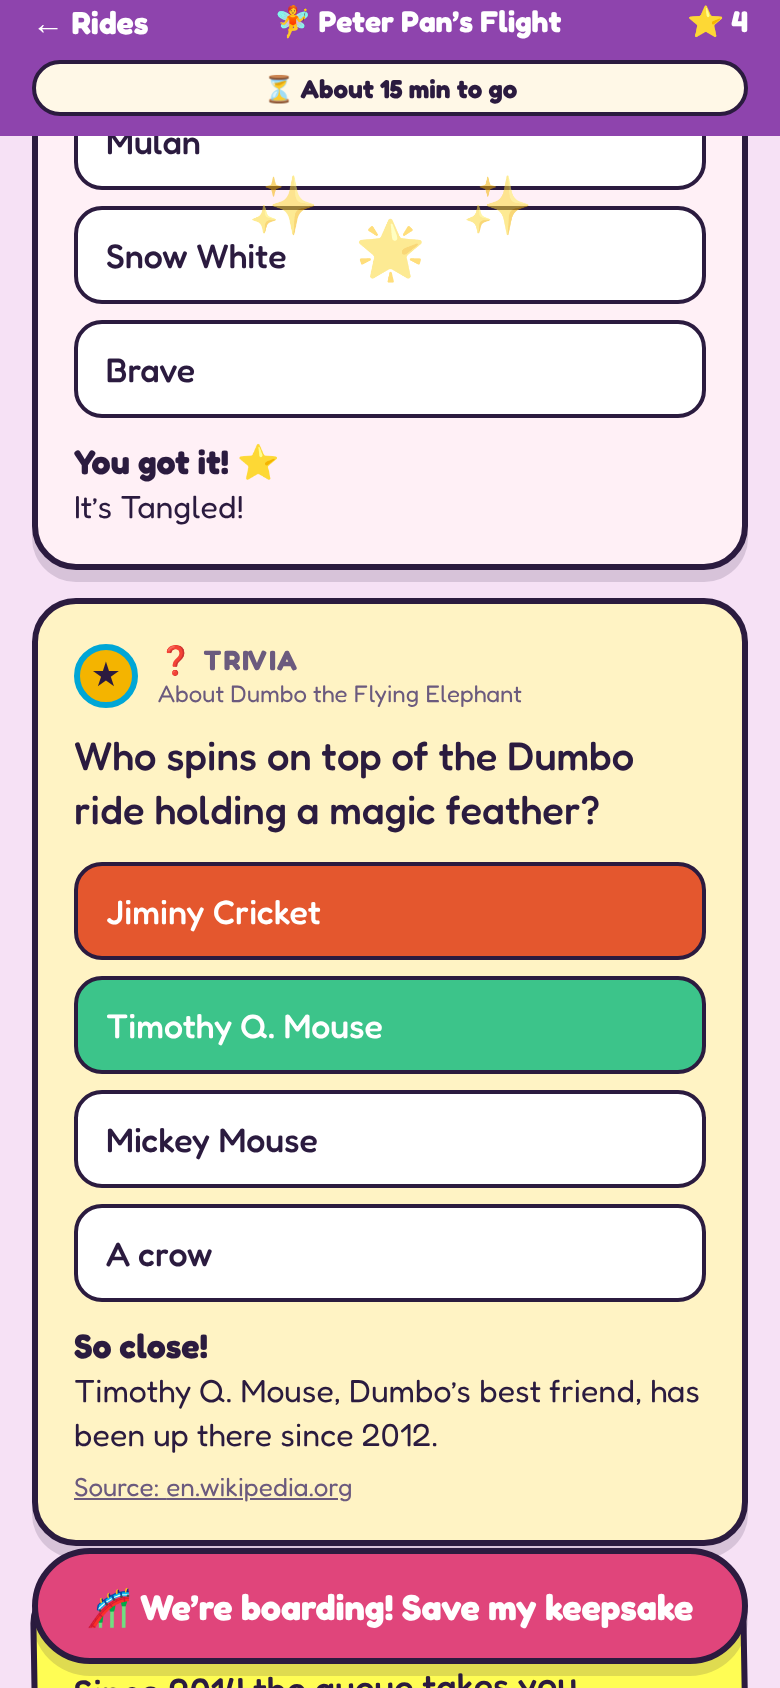
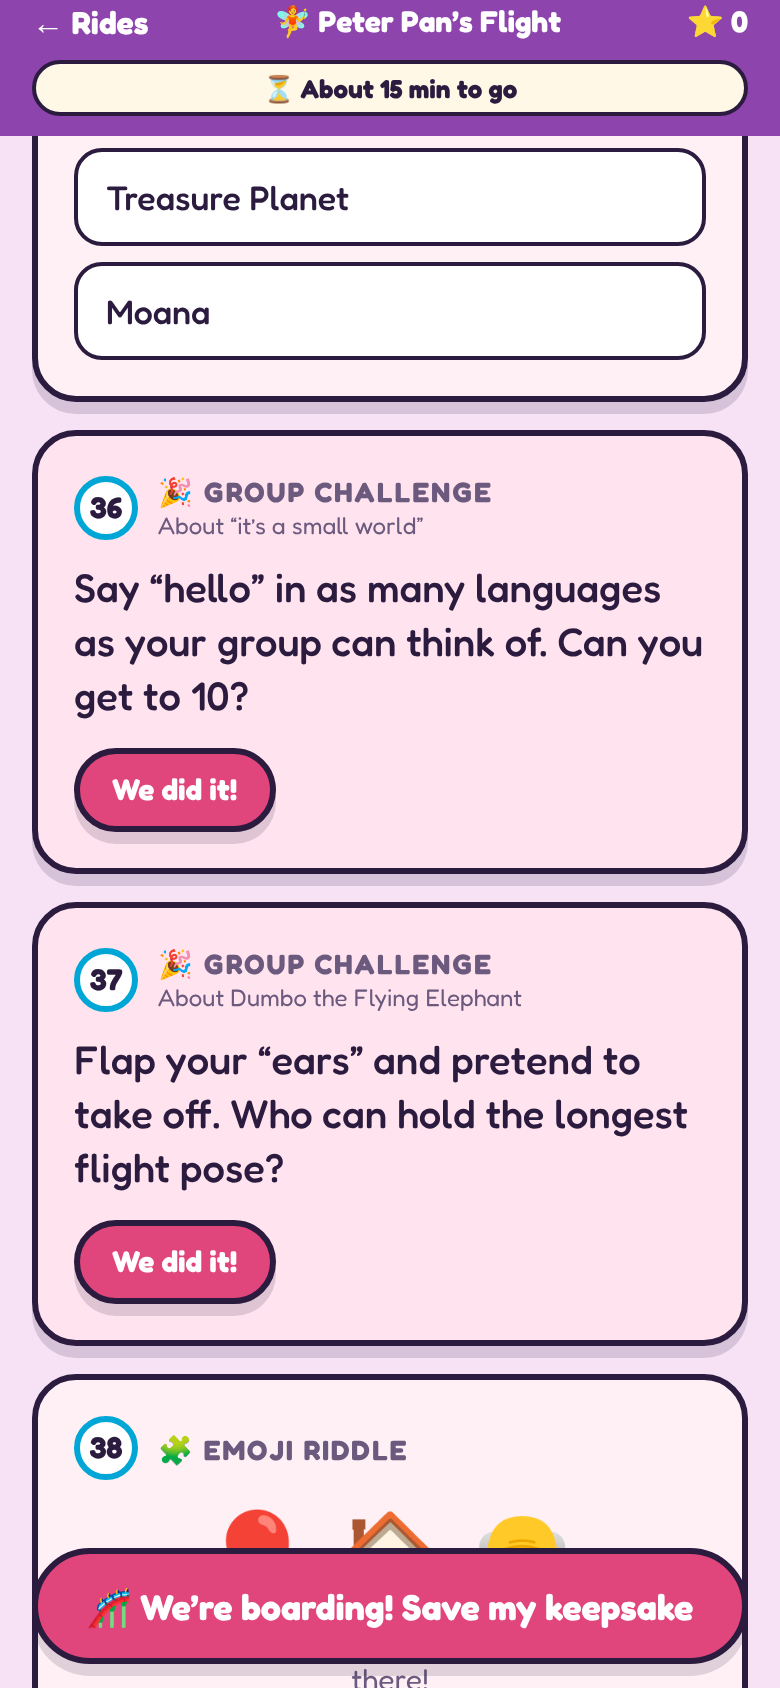
Open every quest in the line story
No more locks: all quests are playable in any order. Scrolling near the
bottom adds about 10 more minutes of quests, so the story keeps going
for as long as the line does.

Claude-Session: https://claude.ai/code/session_011XPjN4JHJbjTbiA4cyU9EL

diff --git a/src/app/line/[id].tsx b/src/app/line/[id].tsx
@@ -1,6 +1,13 @@
 import { router, useLocalSearchParams } from 'expo-router';
-import { Fragment, useEffect, useMemo, useState } from 'react';
-import { Pressable, ScrollView, StyleSheet, View } from 'react-native';
+import { Fragment, useEffect, useMemo, useRef, useState } from 'react';
+import {
+  Pressable,
+  ScrollView,
+  StyleSheet,
+  View,
+  type NativeScrollEvent,
+  type NativeSyntheticEvent,
+} from 'react-native';
 import { SafeAreaView, useSafeAreaInsets } from 'react-native-safe-area-context';
 
 import { FactCard } from '@/components/cards';
@@ -9,7 +16,7 @@ import { QuestCard } from '@/components/quest-card';
 import { StoryButton, Txt } from '@/components/ui';
 import { getAttraction } from '@/data/parks';
 import { useJourney } from '@/lib/journey';
-import { buildQueue, countForMinutes, MINUTES } from '@/lib/plan';
+import { buildQueue, countForMinutes } from '@/lib/plan';
 import { useProgress } from '@/lib/progress';
 import { useSound } from '@/lib/sound';
 import { colors, MAX_WIDTH, pageShadow } from '@/theme';
@@ -23,6 +30,7 @@ export default function LineStory() {
   const { play } = useSound();
   const insets = useSafeAreaInsets();
   const [now, setNow] = useState(Date.now());
+  const grownAt = useRef(-1);
 
   useEffect(() => {
     const t = setInterval(() => setNow(Date.now()), 30_000);
@@ -65,16 +73,22 @@ export default function LineStory() {
   const planned = countForMinutes(queue, active.waitMinutes);
   const total = Math.min(queue.length, countForMinutes(queue, active.waitMinutes + (active.bonusMinutes ?? 0)));
   const list = queue.slice(0, total);
-  const current = list.findIndex((pq) => !active.done[pq.quest.id]);
-  // Show what's done, the quest you're on, and a peek at the next two.
-  const visible = current === -1 ? list : list.slice(0, current + 3);
-  const hidden = list.slice(visible.length);
-  const hiddenMinutes = Math.round(hidden.reduce((n, pq) => n + MINUTES[pq.quest.type], 0));
   const elapsed = Math.floor((now - active.startedAt) / 60000);
   const left = active.waitMinutes - elapsed;
   const pct = Math.min(1, elapsed / active.waitMinutes);
   const stars = Object.values(active.done).filter((d) => d.star).length;
-  const outOfQuests = current === -1 && total >= queue.length;
+  const outOfQuests = total >= queue.length;
+
+  // Everything is open to play in any order. Scrolling near the bottom adds
+  // more, so the story never runs out while you're still in line.
+  const onScroll = (e: NativeSyntheticEvent<NativeScrollEvent>) => {
+    const { contentOffset, contentSize, layoutMeasurement } = e.nativeEvent;
+    const nearEnd = contentOffset.y + layoutMeasurement.height > contentSize.height - 900;
+    if (nearEnd && !outOfQuests && grownAt.current !== total) {
+      grownAt.current = total;
+      updateSession((s) => ({ ...s, bonusMinutes: (s.bonusMinutes ?? 0) + 10 }));
+    }
+  };
 
   const board = () => {
     const k = finishLine();
@@ -116,6 +130,8 @@ export default function LineStory() {
       </View>
 
       <ScrollView
+        onScroll={onScroll}
+        scrollEventThrottle={200}
         style={{ backgroundColor: c.sky }}
         contentContainerStyle={{ alignItems: 'center', paddingBottom: 120 + insets.bottom }}>
         <View style={[styles.page, { paddingHorizontal: 16, paddingTop: 16, gap: 14 }]}>
@@ -129,7 +145,7 @@ export default function LineStory() {
             </Txt>
           </View>
 
-          {visible.map((pq, i) => {
+          {list.map((pq, i) => {
             const fact = a.facts.length ? a.facts[Math.floor(i / 6) % a.facts.length] : undefined;
             return (
               <Fragment key={pq.quest.id}>
@@ -141,34 +157,22 @@ export default function LineStory() {
                 <QuestCard
                   quest={pq.quest}
                   step={i + 1}
-                  locked={current !== -1 && i > current}
+                  locked={false}
                   accent={c.accent}
                   from={pq.from}
                   finished={active.done[pq.quest.id]}
                   onFinish={(star, pick) =>
-                    updateSession((s) => {
-                      const done = { ...s.done, [pq.quest.id]: { star } };
-                      // Reached the end of the list but still in line: keep it going.
-                      const extend = i === list.length - 1 ? 10 : 0;
-                      return {
-                        ...s,
-                        done,
-                        picks: pick ? [...s.picks, pick] : s.picks,
-                        bonusMinutes: (s.bonusMinutes ?? 0) + extend,
-                      };
-                    })
+                    updateSession((s) => ({
+                      ...s,
+                      done: { ...s.done, [pq.quest.id]: { star } },
+                      picks: pick ? [...s.picks, pick] : s.picks,
+                    }))
                   }
                 />
                 {i % 6 === 5 && fact && active.done[pq.quest.id] && <FactCard fact={fact} />}
               </Fragment>
             );
           })}
-
-          {hidden.length > 0 && (
-            <Txt size={15} color={c.ink} style={{ textAlign: 'center' }}>
-              🔒 {hidden.length} more quests ahead, about {hiddenMinutes} minutes of fun
-            </Txt>
-          )}
 
           {outOfQuests && (
             <View style={[styles.end, pageShadow]}>

diff --git a/README.md b/README.md
@@ -16,7 +16,7 @@ Built for kids, families and grown-ups who still feel like kids. Runs on iPhone,
 ## What's inside
 
 - **Pick your ride**: every ride in the park, grouped by land, with the posted wait time in big colored badges (green for short, gold for medium, pink for long). Waits come from [Queue-Times.com](https://queue-times.com).
-- **Stories sized to your wait**: choose your wait (15 minutes to 2 hours, preset from the posted wait) and the app fills it with one continuous scroll of quests. It starts with quests about your ride, then mixes in trivia about nearby rides and the park with play-anywhere games. Still waiting at the end? More quests keep coming.
+- **Stories sized to your wait**: choose your wait (15 minutes to 2 hours, preset from the posted wait) and the app fills it with one continuous scroll of quests. It starts with quests about your ride, then mixes in trivia about nearby rides and the park with play-anywhere games. Every quest is open to play in any order, and more keep appearing as you scroll.
 - **Eight quest types**: Trivia, Fact or Fiction, Guess the Number, Put in Order, Emoji Riddles, I Spy, Would You Rather and Group Challenges.
 - **Keepsakes and My Journey**: tap "We're boarding!" and the ride becomes a keepsake card with your wait, stars, a fact you learned, a rating and a memory. Share it as a picture with a caption and hashtags (#dislizney #LineTimeAdventures and the park and ride), or share your whole day from the My Journey scrapbook.
 - **Storybook flair**: each land has its own illustrated skyline, with sound effects, star bursts and a fanfare when you finish a ride. Sounds can be muted from the cover and respect the phone's silent switch.
